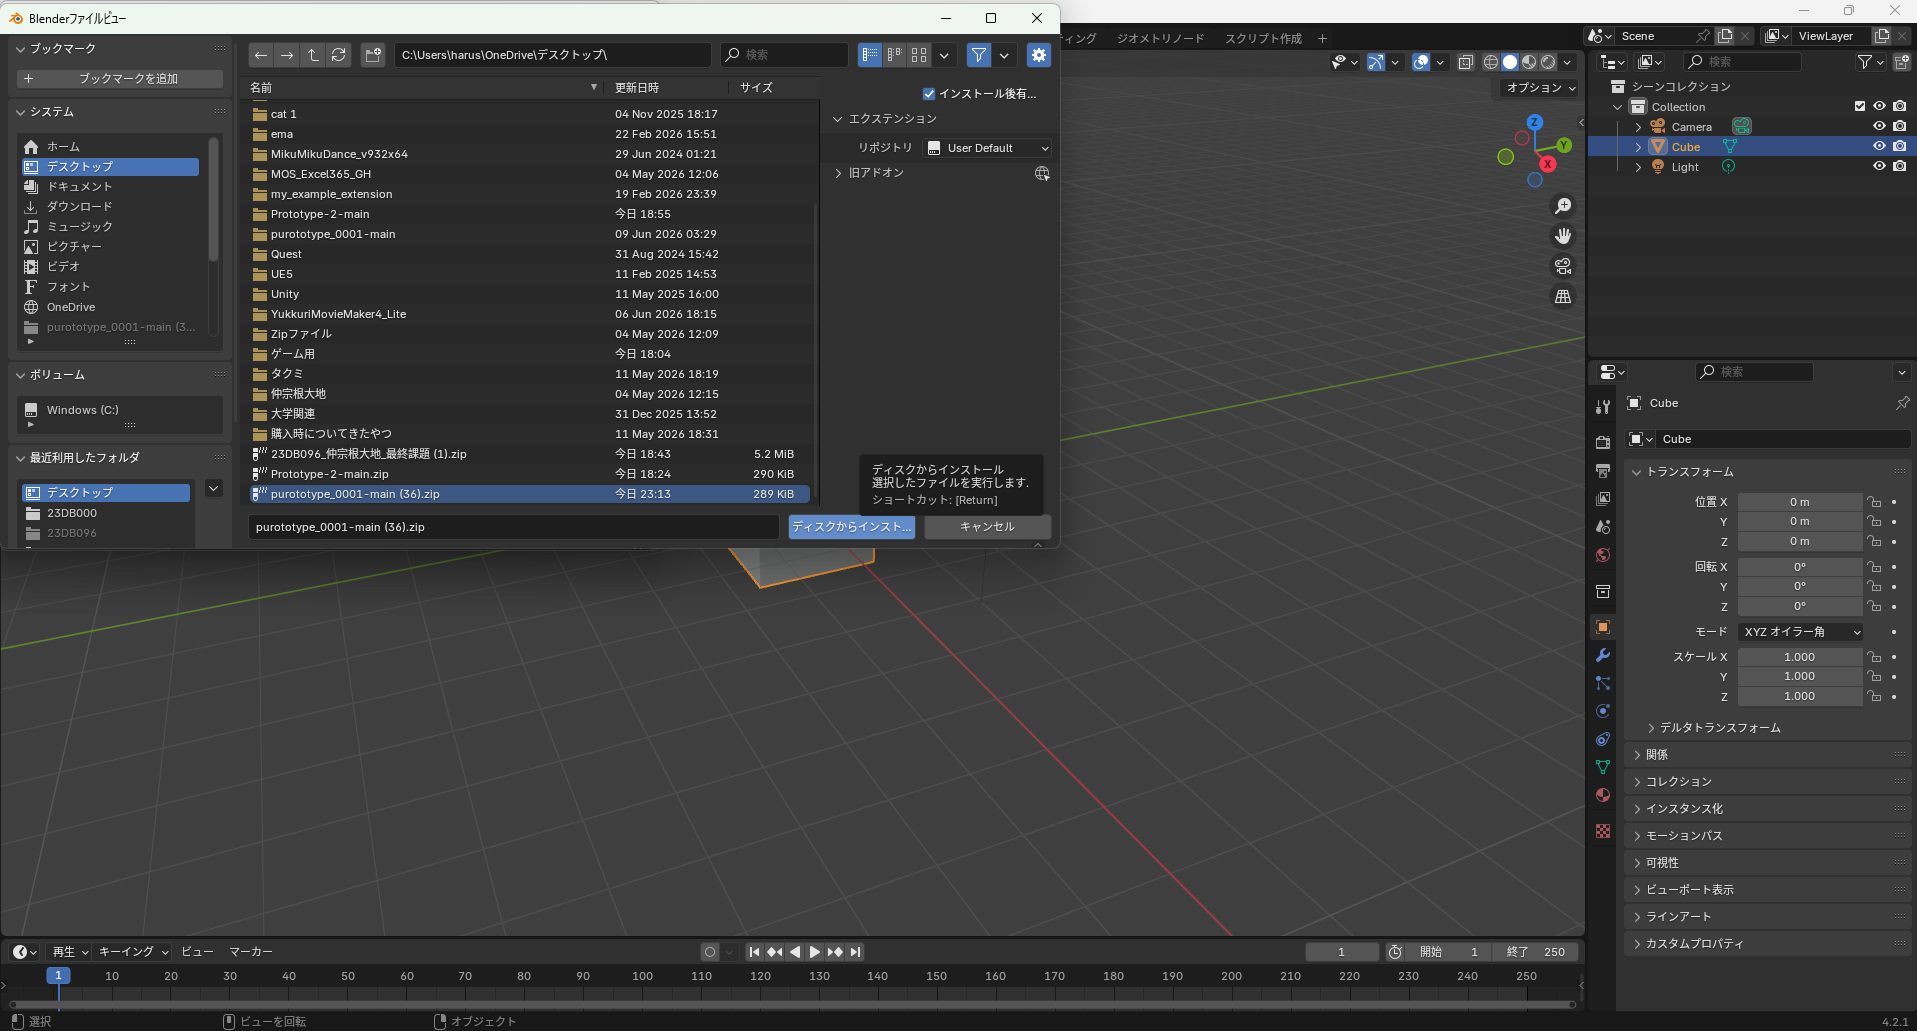
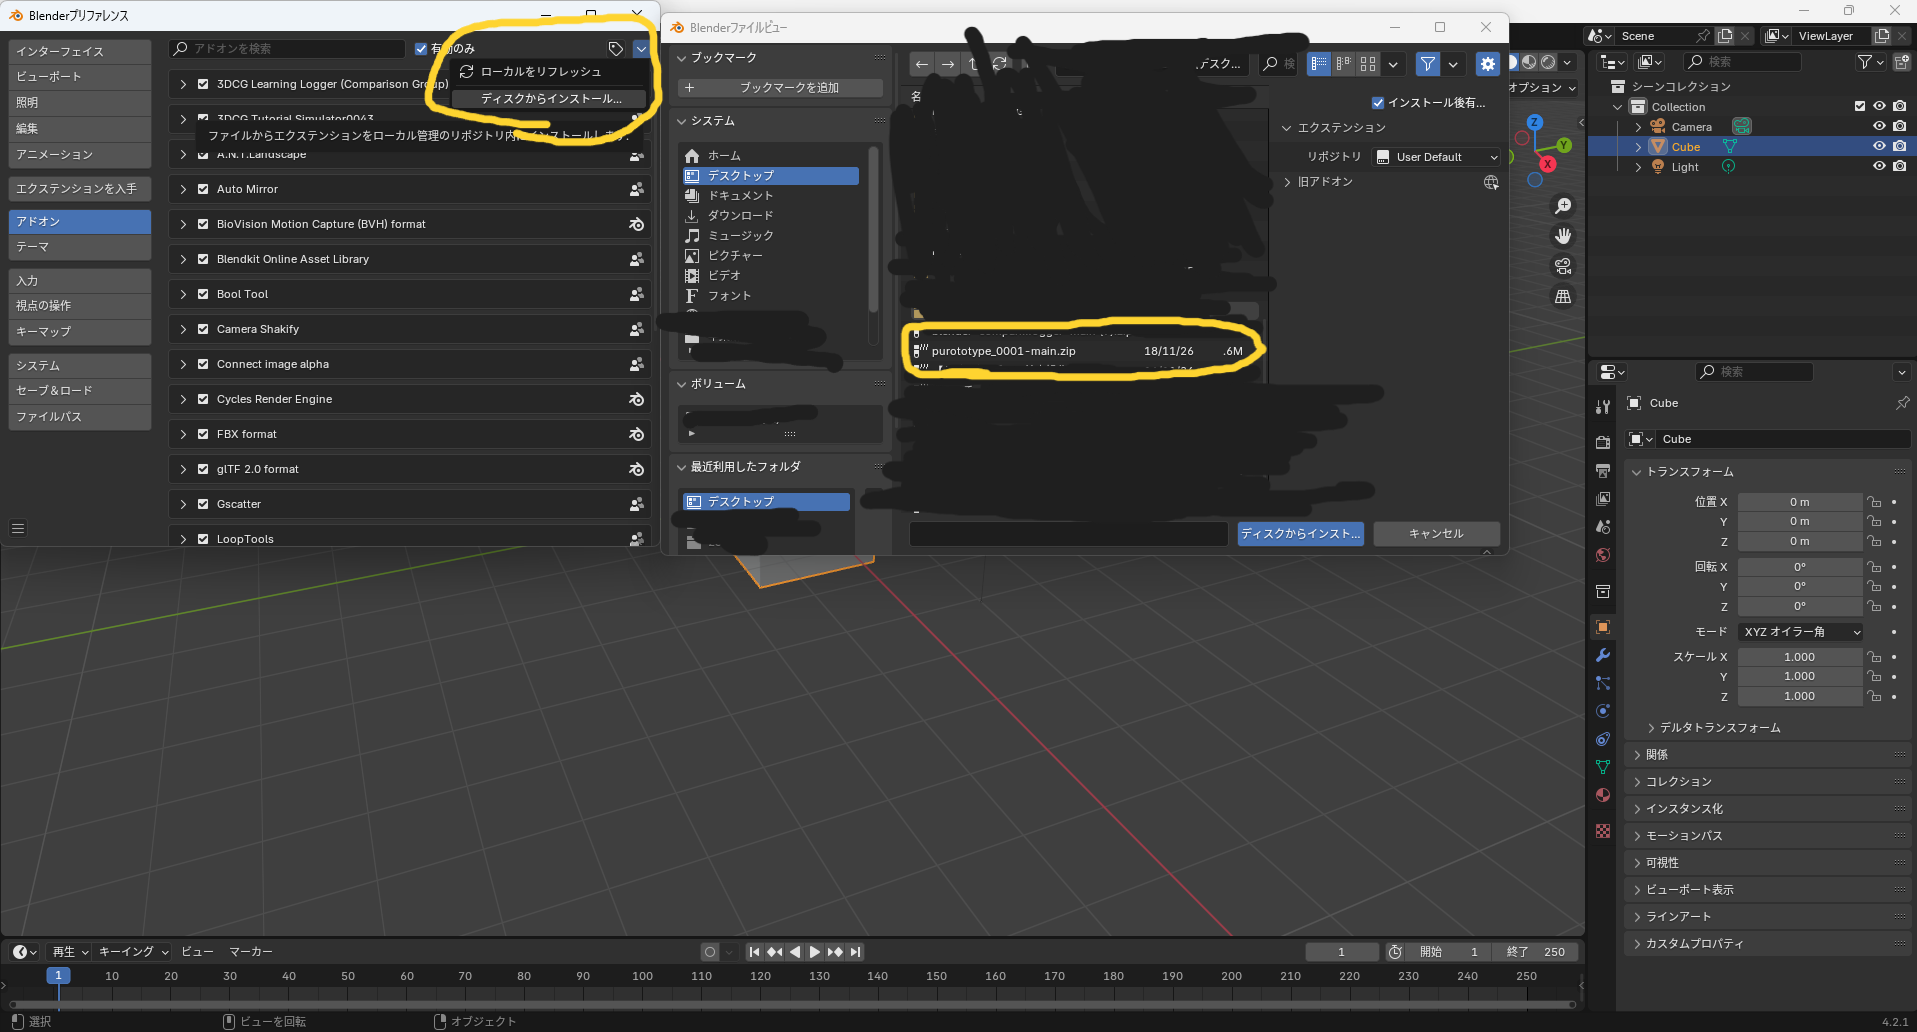
導入手順：step9の画像を差し替え（個人名を隠した撮り直し版）、ステップ7のボタン位置の記述を修正（右上→右下）

diff --git a/index.html b/index.html
@@ -216,9 +216,9 @@
             <p>
               ファイルブラウザが開いたら、以下の順に進んでください。<br>
               「<strong>デスクトップ</strong>」→「<strong>purototype_0001-main.zip</strong>」を選択<br>
-              → 右上の「<strong>ディスクからインストール</strong>」ボタンをクリック
+              → ウィンドウ右下の「<strong>ディスクからインストール</strong>」ボタンをクリック
             </p>
-            <img src="step9.png" alt="ZIPファイルを選択する画面" class="step-img">
+            <img src="step9.png?v=2" alt="ZIPファイルを選択する画面" class="step-img">
           </div>
         </div>
 
